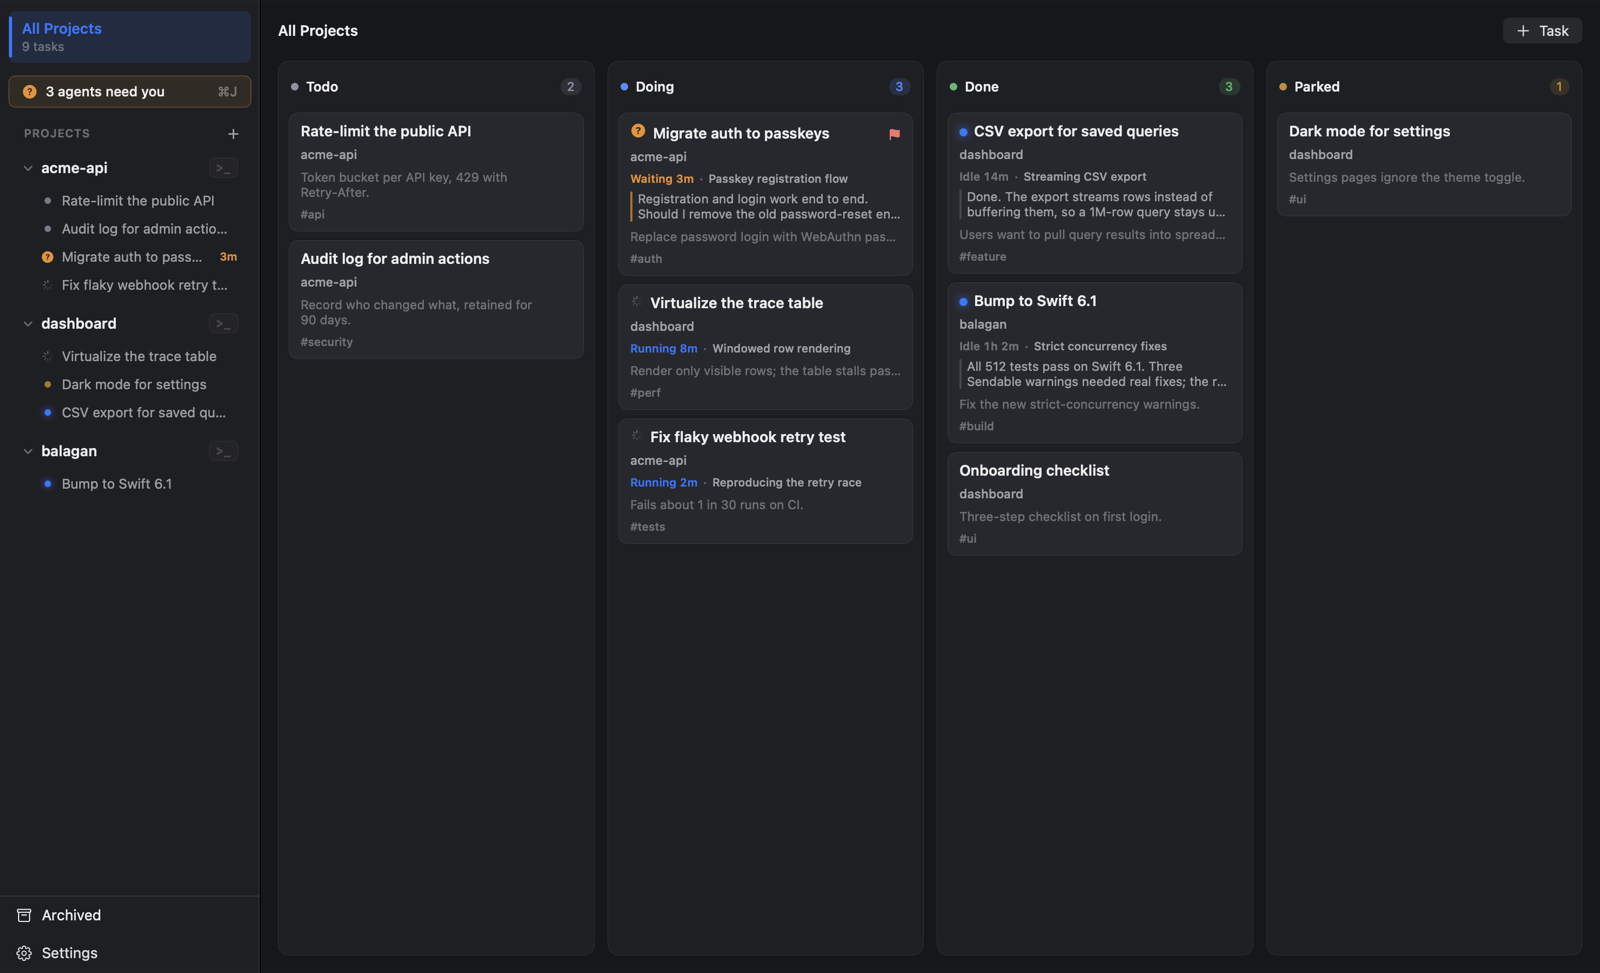
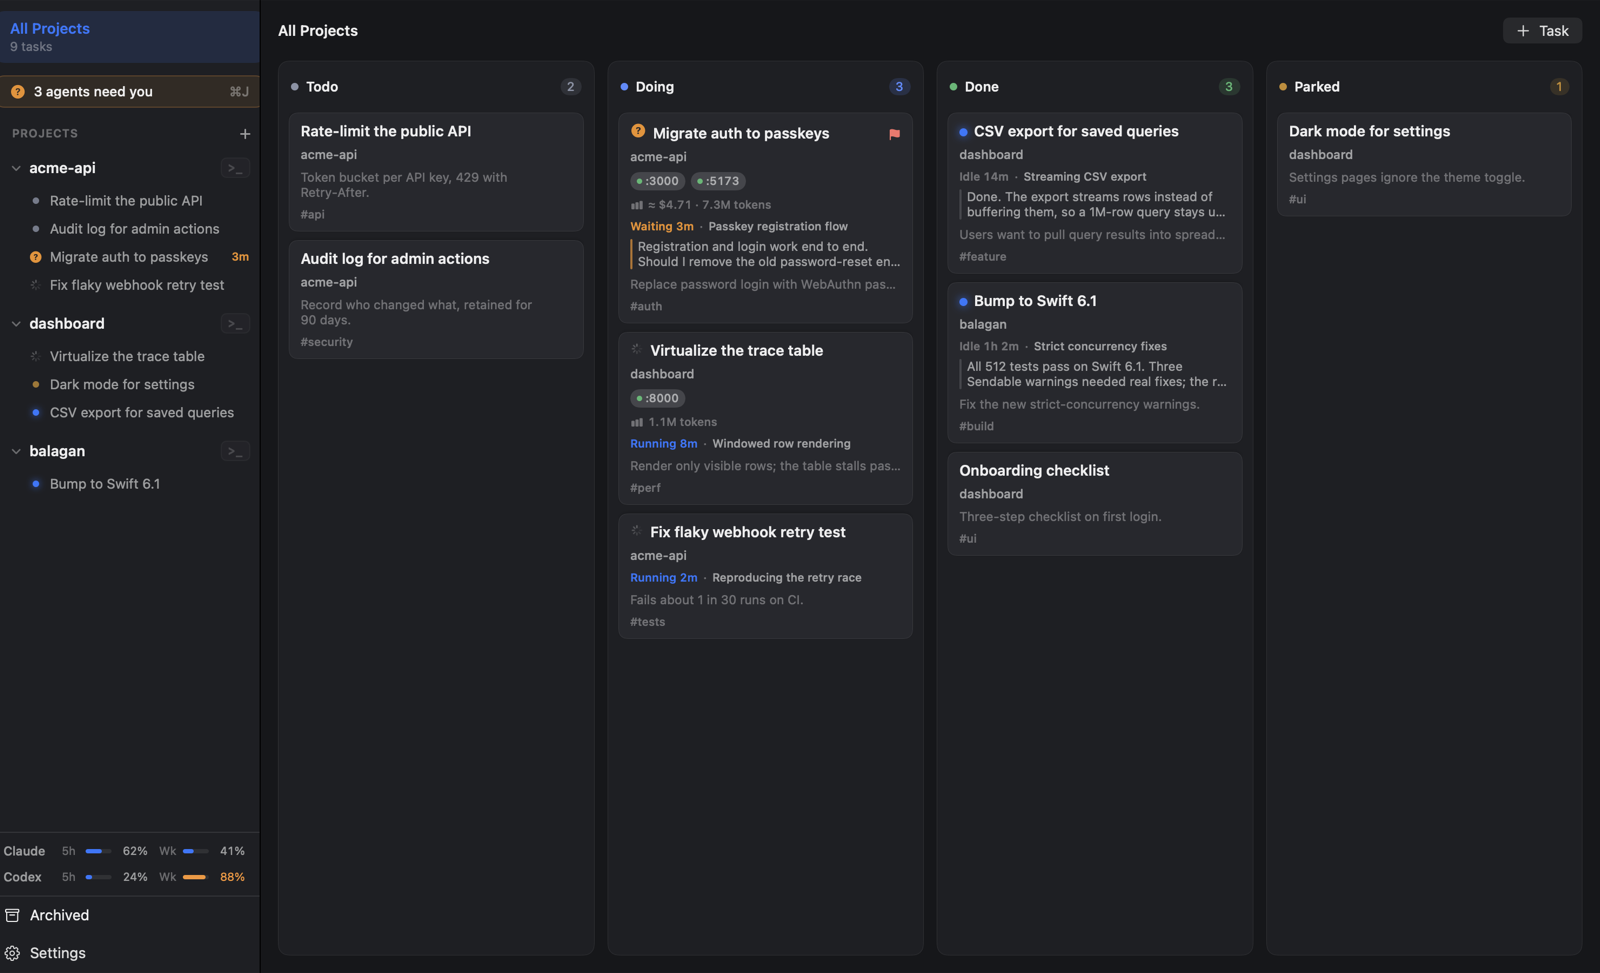
README: refreshed screenshots

diff --git a/docs/screenshots/fixtures.py b/docs/screenshots/fixtures.py
@@ -118,7 +118,18 @@ def snapshot(selected):
 json.dump(snapshot(None), open(f"{OUT}/board.json", "w"))
 json.dump(snapshot("passkeys"), open(f"{OUT}/task.json", "w"))
 projects[0]["repoPath"] = REPO
+# The Changes shot shows two review comments waiting to be sent to the agent.
+tasks[0]["reviewComments"] = [
+    {"id": "c1", "path": "src/auth/routes.ts", "side": "new", "line": 13,
+     "lineText": 'auth.post("/passkeys/register/options", passkeys.registerOptions);',
+     "body": 'Group these four under one auth.use("/passkeys", router) so the prefix lives in one place.',
+     "createdAt": "2026-10-01T16:00:00Z"},
+    {"id": "c2", "path": "src/auth/passkeys.ts", "side": "new", "line": 41,
+     "lineText": "if (!verified) return res.status(401).end();",
+     "body": "Log the failed verification before returning.", "createdAt": "2026-10-01T16:00:01Z"},
+]
 json.dump(snapshot("passkeys"), open(f"{OUT}/changes.json", "w"))
+del tasks[0]["reviewComments"]
 
 json.dump({
     "passkeys": {"state": "needs-input", "summary": "Passkey registration flow", "minutes": 3,

diff --git a/README.md b/README.md
@@ -58,8 +58,8 @@ agent, the dev server and a spare shell all live with the task they belong to.
 <td width="40%">
 <h3>Live agent status on the card</h3>
 Each card shows whether its agent is running, waiting for you, or finished, and for how long. It also
-shows what the agent is working on and a preview of its last answer, so you can often decide without
-opening it.
+shows what the agent is working on, a preview of its last answer, any dev servers it started, and what
+the task has cost so far, so you can often decide without opening it.
 </td>
 <td width="60%" align="center"><img src="docs/images/cards.png" width="360" alt="Cards showing waiting and running agents"></td>
 </tr>
